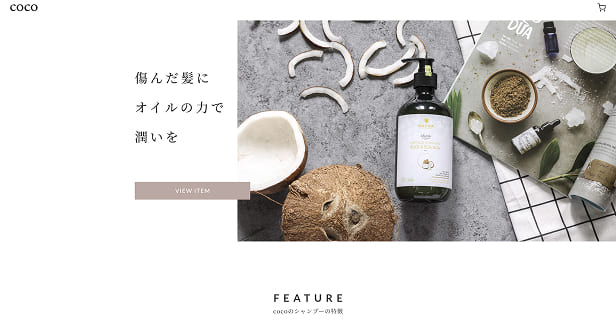
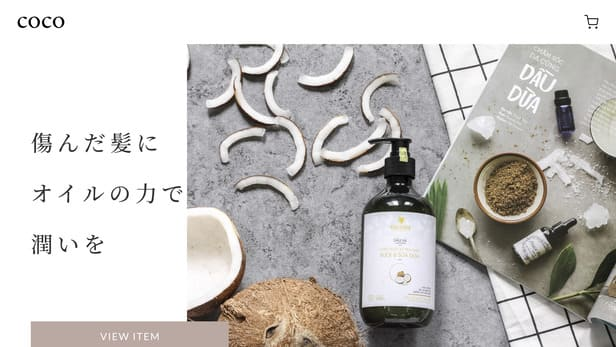
refactor: imgを最適なものに変更

diff --git a/index.html b/index.html
@@ -275,8 +275,8 @@
 
                                 <!-- my portfolio -->
                                 <li class="top-kv-slider-item">
-                                    <button class="top-kv-slider-item-trigger js-kv-slider-item-trigger" aria-label="画像を選択" data-main-src="img/common/16-9/small/my-portfolio.png" data-main-srcset="img/common/16-9/small/my-portfolio.png 308w, img/common/16-9/large/my-portfolio.png 1120w" data-main-sizes="(min-width: 768px) 1120px, 308px" data-href="works/my-portfolio.html" data-title="my portfolio">
-                                        <img src="img/common/1-1/small/my-portfolio.png" width="300" height="300" alt="" decoding="async" />
+                                    <button class="top-kv-slider-item-trigger js-kv-slider-item-trigger" aria-label="画像を選択" data-main-src="img/common/16-9/small/my-portfolio.jpg" data-main-srcset="img/common/16-9/small/my-portfolio.jpg 308w, img/common/16-9/large/my-portfolio.jpg 1120w" data-main-sizes="(min-width: 768px) 1120px, 308px" data-href="works/my-portfolio.html" data-title="my portfolio">
+                                        <img src="img/common/1-1/small/my-portfolio.jpg" width="300" height="300" alt="" decoding="async" />
                                     </button>
                                 </li>
 
@@ -387,7 +387,7 @@
                         <article class="top-works-item">
                             <a href="works/my-portfolio.html" class="top-works-item-link" aria-label="my portfolioの詳細ページに移動">
                                 <div class="top-works-item-thumbnail">
-                                    <img src="img/common/16-9/small/my-portfolio.png" width="616" height="336" alt="" decoding="async" loading="lazy" />
+                                    <img src="img/common/16-9/small/my-portfolio.jpg" width="616" height="336" alt="" decoding="async" loading="lazy" />
                                 </div>
                                 <div class="top-works-item-desc">
                                     <time datetime="2026-02" class="top-works-item-date">2026.02</time>

diff --git a/works/index.html b/works/index.html
@@ -249,7 +249,7 @@
                             <article class="works-item">
                                 <a href="my-portfolio.html" class="works-item-link" aria-label="my portfolioの詳細を見る">
                                     <div class="works-item-thumbnail">
-                                        <img src="../img/common/16-9/small/my-portfolio.png" srcset="../img/common/16-9/small/my-portfolio.png 308w, ../img/common/16-9/large/my-portfolio.png 1120w" sizes="(min-width: 768px) 1120px, 308px" width="2240" height="1260" alt="" decoding="async" />
+                                        <img src="../img/common/16-9/small/my-portfolio.jpg" srcset="../img/common/16-9/small/my-portfolio.jpg 308w, ../img/common/16-9/large/my-portfolio.jpg 1120w" sizes="(min-width: 768px) 1120px, 308px" width="2240" height="1260" alt="" decoding="async" />
                                     </div>
                                     <div class="works-item-info">
                                         <h3 class="works-item-title">my portfolio</h3>

diff --git a/works/my-portfolio.html b/works/my-portfolio.html
@@ -199,7 +199,7 @@
 
                     <!-- hero section -->
                     <div class="works-detail-hero">
-                        <img src="../img/common/16-9/small/my-portfolio.png" srcset="../img/common/16-9/small/my-portfolio.png 308w, ../img/common/16-9/large/my-portfolio.png 1120w" sizes="(min-width: 768px) 1120px, 308px" width="2240" height="1260" alt="" decoding="async" />
+                        <img src="../img/common/16-9/small/my-portfolio.jpg" srcset="../img/common/16-9/small/my-portfolio.jpg 308w, ../img/common/16-9/large/my-portfolio.jpg 1120w" sizes="(min-width: 768px) 1120px, 308px" width="2240" height="1260" alt="" decoding="async" />
                     </div>
                     <!-- the end of hero section -->
 
